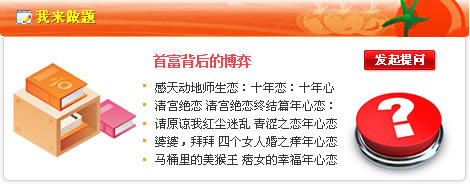
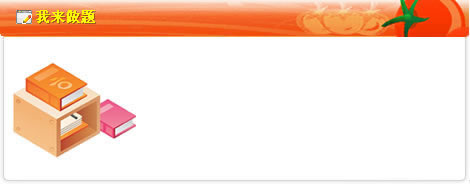
index_question

diff --git a/css/index.css b/css/index.css
@@ -176,6 +176,14 @@ p{margin:0px; padding:0px;}
 #b_t_l{width:525px; height:188px; background:url(/images/index/bg_b_t_l.jpg) no-repeat; float:left; display:inline;}
 
 #b_t_r{width:470px; height:188px; background:url(/images/index/bg_b_t_r.jpg) no-repeat; float:right; display:inline;}
+#b_t_r .m_box{width:205px; height:140px; margin-left:140px; margin-top:40px; float:left; display:inline;}
+#b_t_r .top_title{width:190px; height:30px; margin-top:5px; margin-left:12px; line-height:30px; font-weight:bolder; font-size:16px; overflow:hidden; float:left; display:inline;}
+#b_t_r .top_title a{color:#ED4254; text-decoration:none;}
+#b_t_r .bottom_title{width:190px; height:18px; line-height:18px; overflow:hidden; float:left; display:inline;}
+#b_t_r .bottom_title a{color:#000000; text-decoration:none;}
+#b_t_r .r_box{width:120px; height:140px; margin-top:40px; float:left; display:inline; }
+#b_t_r .r_box #begin_question{width:73px; height:22px; margin-left:15px; margin-top:6px; float:left; display:inline;}
+#b_t_r .r_box #question{width:106px; height:88px; margin-top:20px; float:left; display:inline;}
 
 #b_b_l{width:315px; height:145px; background:url(/images/index/bg_b_b_l.jpg) no-repeat; float:left; display:inline;}
 

diff --git a/index.php b/index.php
@@ -560,7 +560,7 @@
   		<!-- start middle_left_bottom !-->
  			<div id=m_l_b>
  				<div id=title>博 客</div>
- 				<a href="/blog/" id=more target=_blank></a>
+ 				<a href="/zone/" id=more target=_blank></a>
  				<?
   				$sql = 'select i.id as img_id,i.src,c.id as cid from smg_images i left join smg_category c on i.category_id=c.id where i.is_adopt=1 and c.name="首页博客" and c.platform="zone" order by i.priority asc limit 1';
 					$record_blog=$db -> query($sql);	
@@ -705,7 +705,25 @@
  
       <!-- start bottom_top_right !-->
  			<div id=b_t_r>
-
+				<div class=m_box>
+					<?php  
+						$sql = 'select id,title from smg_question where is_adopt=1 order by create_time desc limit 6';
+						$record = $db->query($sql);
+						$count = count($record);
+					?>
+					<div class="top_title"><a href="/answer/answer.php?id=<?php echo $record[0]->id; ?>" title="<?php echo $record[0]->title; ?>" target=_blank><?php echo $record[0]->title; ?></a></div>
+					<?php 
+						for($i=1;$i<$count;$i++){
+					?>
+					<div class="bottom_title"><li><span style="color:#FF9900">·</span><a href="/answer/answer.php?id=<?php echo $record[$i]->id ?>" title="<?php echo $record[$i]->title; ?>" target=_blank><?php echo $record[$i]->title ?></a></li></div>
+					<?php
+						}
+					?>
+				</div>
+				<div class=r_box>
+					<div id=begin_question><a href="/answer/question.php" target="_blank"><img border=0 src="/images/index/begin_question.jpg"></a></div>
+					<div id=question><a href="/answer/answerlist.php" target="_blank"><img border=0 src="/images/index/question.jpg"></a></div>
+				</div>
  			</div>
  			<!-- end !-->	 
     	

diff --git a/answer/question.php b/answer/question.php
@@ -6,7 +6,7 @@
 <head>
 	<meta http-equiv=Content-Type content="text/html; charset=utf-8">
 	<meta http-equiv=Content-Language content=zh-CN>
-	<title>SMG -发起答题</title>
+	<title>SMG-番茄网-服务-发起答题</title>
 	<?php 
 		css_include_tag('top.css','bottom.css','answer.css','answer_right.css');
 		use_jquery();

diff --git a/answer/answerlist.php b/answer/answerlist.php
@@ -6,7 +6,7 @@
 <head>
 	<meta http-equiv=Content-Type content="text/html; charset=utf-8">
 	<meta http-equiv=Content-Language content=zh-CN>
-	<title>SMG -答题列表</title>
+	<title>>SMG-番茄网-服务-答题列表</title>
 	<?php 
 		css_include_tag('top.css','bottom.css','answer.css','answer_right.css');
 	?>

diff --git a/answer/result.php b/answer/result.php
@@ -10,7 +10,7 @@
 <head>
 	<meta http-equiv=Content-Type content="text/html; charset=utf-8">
 	<meta http-equiv=Content-Language content=zh-CN>
-	<title>SMG-答题-结果页面</title>
+	<title>>SMG-番茄网-服务-结果</title>
 	<?php 
 		css_include_tag('top.css','bottom.css','answer','answer_right');
 	?>

diff --git a/answer/pro_answer.php b/answer/pro_answer.php
@@ -27,7 +27,7 @@
 <head>
 	<meta http-equiv=Content-Type content="text/html; charset=utf-8">
 	<meta http-equiv=Content-Language content=zh-CN>
-	<title>SMG</title>
+	<title>>SMG-番茄网-服务-答题</title>
 	<?php 
 		css_include_tag('top.css','bottom.css','answer/answer','thickbox');
 	?>

diff --git a/answer/answer.php b/answer/answer.php
@@ -21,7 +21,7 @@
 <head>
 	<meta http-equiv=Content-Type content="text/html; charset=utf-8">
 	<meta http-equiv=Content-Language content=zh-CN>
-	<title>SMG</title>
+	<title>SMG-番茄网-服务-答题</title>
 	<?php 
 		css_include_tag('top.css','bottom.css','answer/answer','thickbox');
 	?>

diff --git a/answer/question.post.php b/answer/question.post.php
@@ -23,6 +23,6 @@
 		}
 	}
 	
-	alert('发表成功！谢谢参与！');
+	alert('谢谢参与！请耐心等待管理员审批！');
 	redirect('question.php');
 ?>
